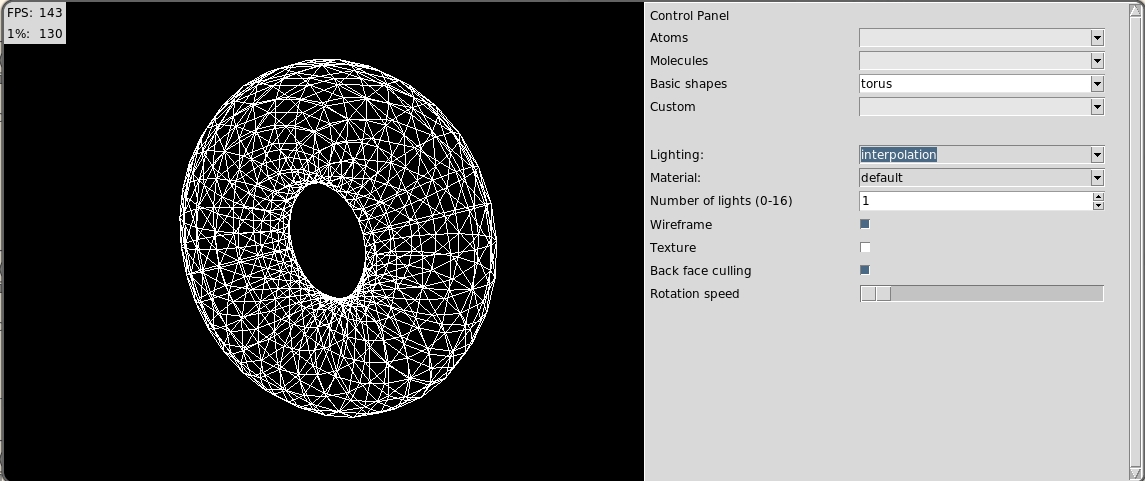
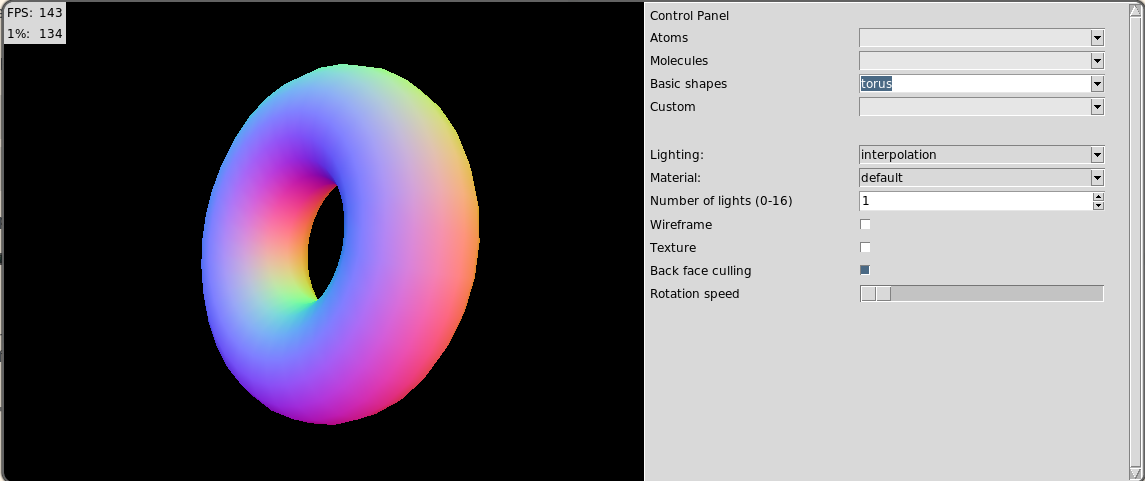
doc: adding user doc

Changed region(s): [[0.1528, 0.1247, 0.4585, 0.9044], [0.7336, 0.2807, 0.8253, 0.343], [0.7336, 0.1559, 0.7948, 0.1871]]

diff --git a/src/shape_generators/three_dee/torus.py b/src/shape_generators/three_dee/torus.py
@@ -3,18 +3,22 @@ import numpy as np
 from .. import tools
 
 import logging
+
 logger = logging.getLogger(__name__)
 
-def generate(thickness: float = 1.0, 
-             hole_size: float = 1.0,
-             n:         int   = 8, 
-             color:     str   = "hex",
-             hex = 0xffffff,
-             **kwargs):
-  thickness = float(thickness) 
-  hole_size = float(hole_size) 
-  n         = int(n)   
-  color     = str(color)   
+
+def generate(
+  thickness: float = 1.0,
+  hole_size: float = 1.0,
+  n: int = 8,
+  color: str = "normal",
+  hex=0xFFFFFF,
+  **kwargs,
+):
+  thickness = float(thickness)
+  hole_size = float(hole_size)
+  n = int(n)
+  color = str(color)
   for arg in kwargs.keys():
     logger.debug(f"Unused kwarg: {arg} = {kwargs[arg]}")
 
@@ -26,44 +30,55 @@ def generate(thickness: float = 1.0,
   if n < 3:
     n = 3
   data = tools.dataStructure()
-  ringCount = 2*n
-  tempRing = tools.simple_ngonGenerator(n,thickness,0)
+  ringCount = 2 * n
+  tempRing = tools.simple_ngonGenerator(n, thickness, 0)
   centerOffset = thickness + hole_size
   vertices = []
   for ring in tempRing:
-   vertices = vertices + tools.simple_ngonGenerator(ringCount,centerOffset - ring[0],ring[1])
-  data["vertices"] = np.array(vertices,dtype=np.float32)
+    vertices = vertices + tools.simple_ngonGenerator(ringCount, centerOffset - ring[0], ring[1])
+  data["vertices"] = np.array(vertices, dtype=np.float32)
 
-  index = lambda i,j: (i % n) * ringCount + j % ringCount
+  index = lambda i, j: (i % n) * ringCount + j % ringCount
   listOfQuads = []
-  for i in range(n+1):
-    for j in range(ringCount+1):
-      listOfQuads.append([index(i+1,j),index(i+1,j+1),index(i,j+1),index(i,j)])
+  for i in range(n + 1):
+    for j in range(ringCount + 1):
+      listOfQuads.append([index(i + 1, j), index(i + 1, j + 1), index(i, j + 1), index(i, j)])
   data["indices"] = tools.quads2triangles(listOfQuads)
   tools.vertexNeighborNormals(data)
-  tools.chooseColoring(color)(data, hex = hex)
-  uvTexture(data,ringCount=ringCount,vertPerRing=n)
+  tools.chooseColoring(color)(data, hex=hex)
+  uvTexture(data, ringCount=ringCount, vertPerRing=n)
   tools.dataToNumpyArray(data)
-  
+
   return data
 
-def uvTexture(data,ringCount,vertPerRing):
+
+def uvTexture(data, ringCount, vertPerRing):
   # me when I box splitter attack:
-  
-  verticalSlice = tools.uvSlicer(data,[
-    {"splits":[v * ringCount for v in range(vertPerRing)]+[0]},
-  ])
-  leftSide = tools.getUvSide(data,verticalSlice,[0],[1])
-  rightSide = tools.getUvSide(data,verticalSlice,[0],[ringCount-1])
-  
-  horizontalSlice = tools.uvSlicer(data,[
-    {"splits":[verticalSlice[0][leftSide]]+[c for c in range(1,ringCount)]+[verticalSlice[0][rightSide]]},
-  ])
+
+  verticalSlice = tools.uvSlicer(
+    data,
+    [
+      {"splits": [v * ringCount for v in range(vertPerRing)] + [0]},
+    ],
+  )
+  leftSide = tools.getUvSide(data, verticalSlice, [0], [1])
+  rightSide = tools.getUvSide(data, verticalSlice, [0], [ringCount - 1])
+
+  horizontalSlice = tools.uvSlicer(
+    data,
+    [
+      {
+        "splits": [verticalSlice[0][leftSide]]
+        + [c for c in range(1, ringCount)]
+        + [verticalSlice[0][rightSide]]
+      },
+    ],
+  )
   # topSide = tools.getUvSide(data,horizontalSlice,[0],[ringCount])
   # bottomSide = tools.getUvSide(data,horizontalSlice,[0],[ringCount*(vertPerRing-1)])
-  topSide = tools.getUvSide(data,horizontalSlice,[0],[ringCount*(vertPerRing-1)])
-  bottomSide = tools.getUvSide(data,horizontalSlice,[0],[ringCount])
-  
+  topSide = tools.getUvSide(data, horizontalSlice, [0], [ringCount * (vertPerRing - 1)])
+  bottomSide = tools.getUvSide(data, horizontalSlice, [0], [ringCount])
+
   # sides of uv mapped
   #               -rc+
   #     tl ------ top ------- tr
@@ -77,33 +92,32 @@ def uvTexture(data,ringCount,vertPerRing):
   #     bl----- bottom ------ br
   # quite annoying that (IringCount,IvertexPerRing) is upside down compared to (uvx,uvy)
 
-  data["uvs"] = np.full((data["vertices"].shape[0],2),[5.0,5.0],dtype=np.float32)
-  
+  data["uvs"] = np.full((data["vertices"].shape[0], 2), [5.0, 5.0], dtype=np.float32)
+
   # middle
-  for x in range(1,ringCount):
-    for y in range(1,vertPerRing):
-      data["uvs"][y*ringCount+x] = [x/ringCount,y/vertPerRing]
-  
+  for x in range(1, ringCount):
+    for y in range(1, vertPerRing):
+      data["uvs"][y * ringCount + x] = [x / ringCount, y / vertPerRing]
+
   # topleft
-  data["uvs"][horizontalSlice[verticalSlice[0][leftSide]][topSide]] = [0,1]
+  data["uvs"][horizontalSlice[verticalSlice[0][leftSide]][topSide]] = [0, 1]
   # top
-  for x in range(1,ringCount):
-    data["uvs"][horizontalSlice[0*ringCount+x][topSide]] = [x/ringCount,1]
+  for x in range(1, ringCount):
+    data["uvs"][horizontalSlice[0 * ringCount + x][topSide]] = [x / ringCount, 1]
   # topright
-  data["uvs"][horizontalSlice[verticalSlice[0][rightSide]][topSide]] = [1,1]
+  data["uvs"][horizontalSlice[verticalSlice[0][rightSide]][topSide]] = [1, 1]
 
   # left
-  for y in range(1,vertPerRing):
-    data["uvs"][verticalSlice[y*ringCount+0][leftSide]] = [0,y/vertPerRing]
+  for y in range(1, vertPerRing):
+    data["uvs"][verticalSlice[y * ringCount + 0][leftSide]] = [0, y / vertPerRing]
   # right
-  for y in range(1,vertPerRing):
-    data["uvs"][verticalSlice[y*ringCount+0][rightSide]] = [1,y/vertPerRing]
-  
+  for y in range(1, vertPerRing):
+    data["uvs"][verticalSlice[y * ringCount + 0][rightSide]] = [1, y / vertPerRing]
+
   # # bottomleft
-  data["uvs"][horizontalSlice[verticalSlice[0][leftSide]][bottomSide]] = [0,0]
+  data["uvs"][horizontalSlice[verticalSlice[0][leftSide]][bottomSide]] = [0, 0]
   # bottom
-  for x in range(1,ringCount):
-    data["uvs"][horizontalSlice[0*ringCount+x][bottomSide]] = [x/ringCount,0]
+  for x in range(1, ringCount):
+    data["uvs"][horizontalSlice[0 * ringCount + x][bottomSide]] = [x / ringCount, 0]
   # bottomright
-  data["uvs"][horizontalSlice[verticalSlice[0][rightSide]][bottomSide]] = [1,0]
-  
+  data["uvs"][horizontalSlice[verticalSlice[0][rightSide]][bottomSide]] = [1, 0]
